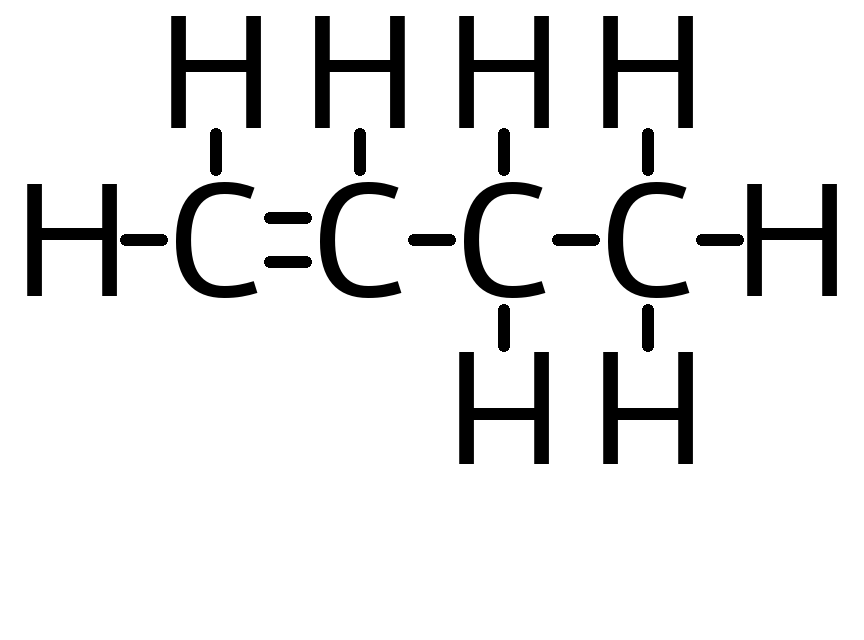
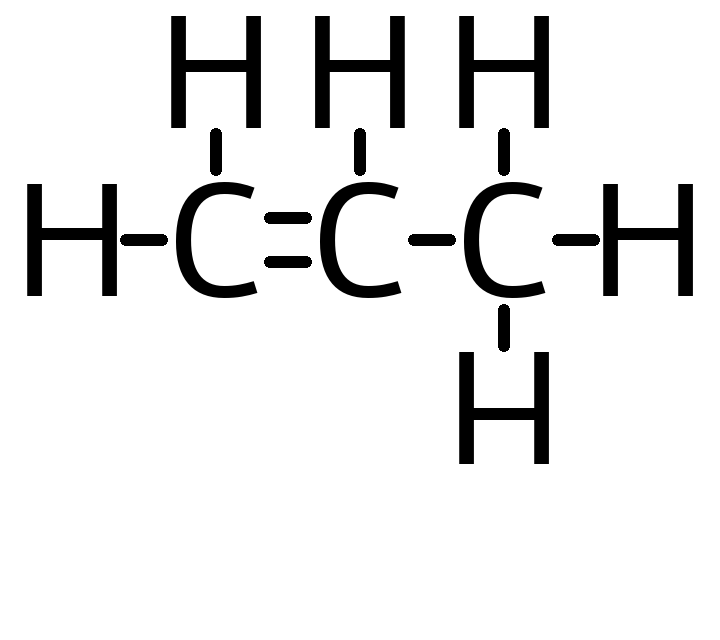
Structural & general formula hotfix

diff --git a/ajuna_Bot/Chemistry.py b/ajuna_Bot/Chemistry.py
@@ -131,15 +131,16 @@ def generate_name(name):
     carbon, series, location = parse_suffix_prefix(name)
     carbon += 1
     series += 1
+    print(f'{carbon} : {series}')
     match series:
         case 1:
-            return f'C{get_subscript(carbon + 1)}H{get_subscript((2 * (carbon + 1)) + 2)}'
+            return f'C{get_subscript(carbon)}H{get_subscript((2 * carbon) + 2)}'
         case 2:
-            return f'C{get_subscript(carbon + 1)}H{get_subscript((2 * (carbon + 1)))}'
+            return f'C{get_subscript(carbon)}H{get_subscript((2 * carbon))}'
         case 3:
-            return f'C{get_subscript(carbon + 1)}H{get_subscript((2 * (carbon + 1)) - 2)}'
+            return f'C{get_subscript(carbon)}H{get_subscript((2 * carbon) - 2)}'
         case 4:
-            return f'C{get_subscript(carbon)}H{get_subscript((2 * (carbon)) + 1)}OH'
+            return f'C{get_subscript(carbon)}H{get_subscript((2 * carbon) + 1)}OH'
         case 5:
             return f'C{get_subscript(carbon - 1)}H{get_subscript((2 * (carbon - 1)) + 1)}COOH'
         case 6:
@@ -173,7 +174,7 @@ def image_generate(name):
             image_from_list(field).save(f'chemistry_assets/library/{name}.png')
             return True
         case 2:
-            field = ['' for i in range(carbon + 2)]
+            field = ['' for i in range(carbon + 1)]
             field[location] = '-h-c=c-h-'
             field[0] = 'h-'
             field[-1] = '-h'
